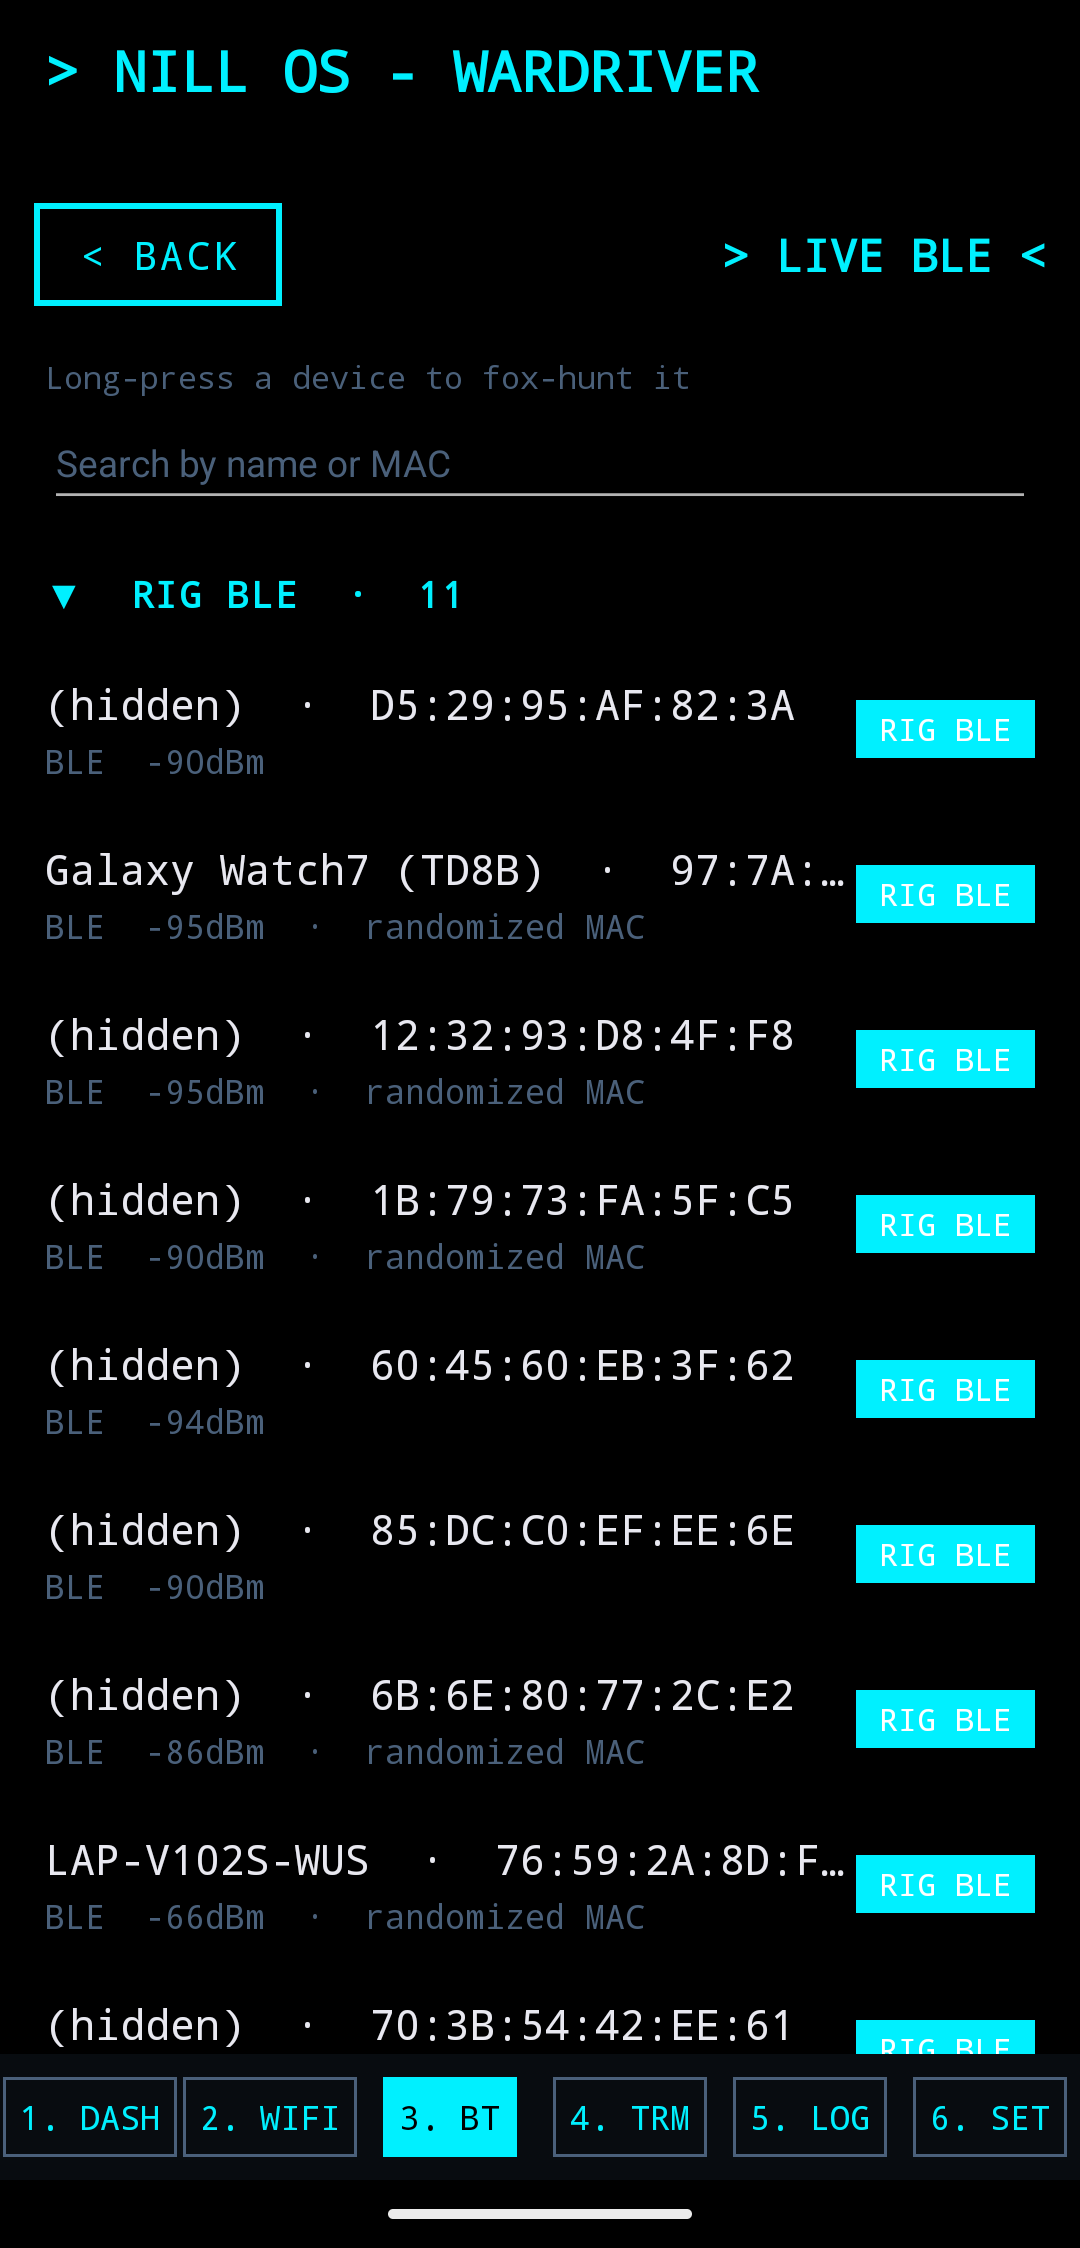
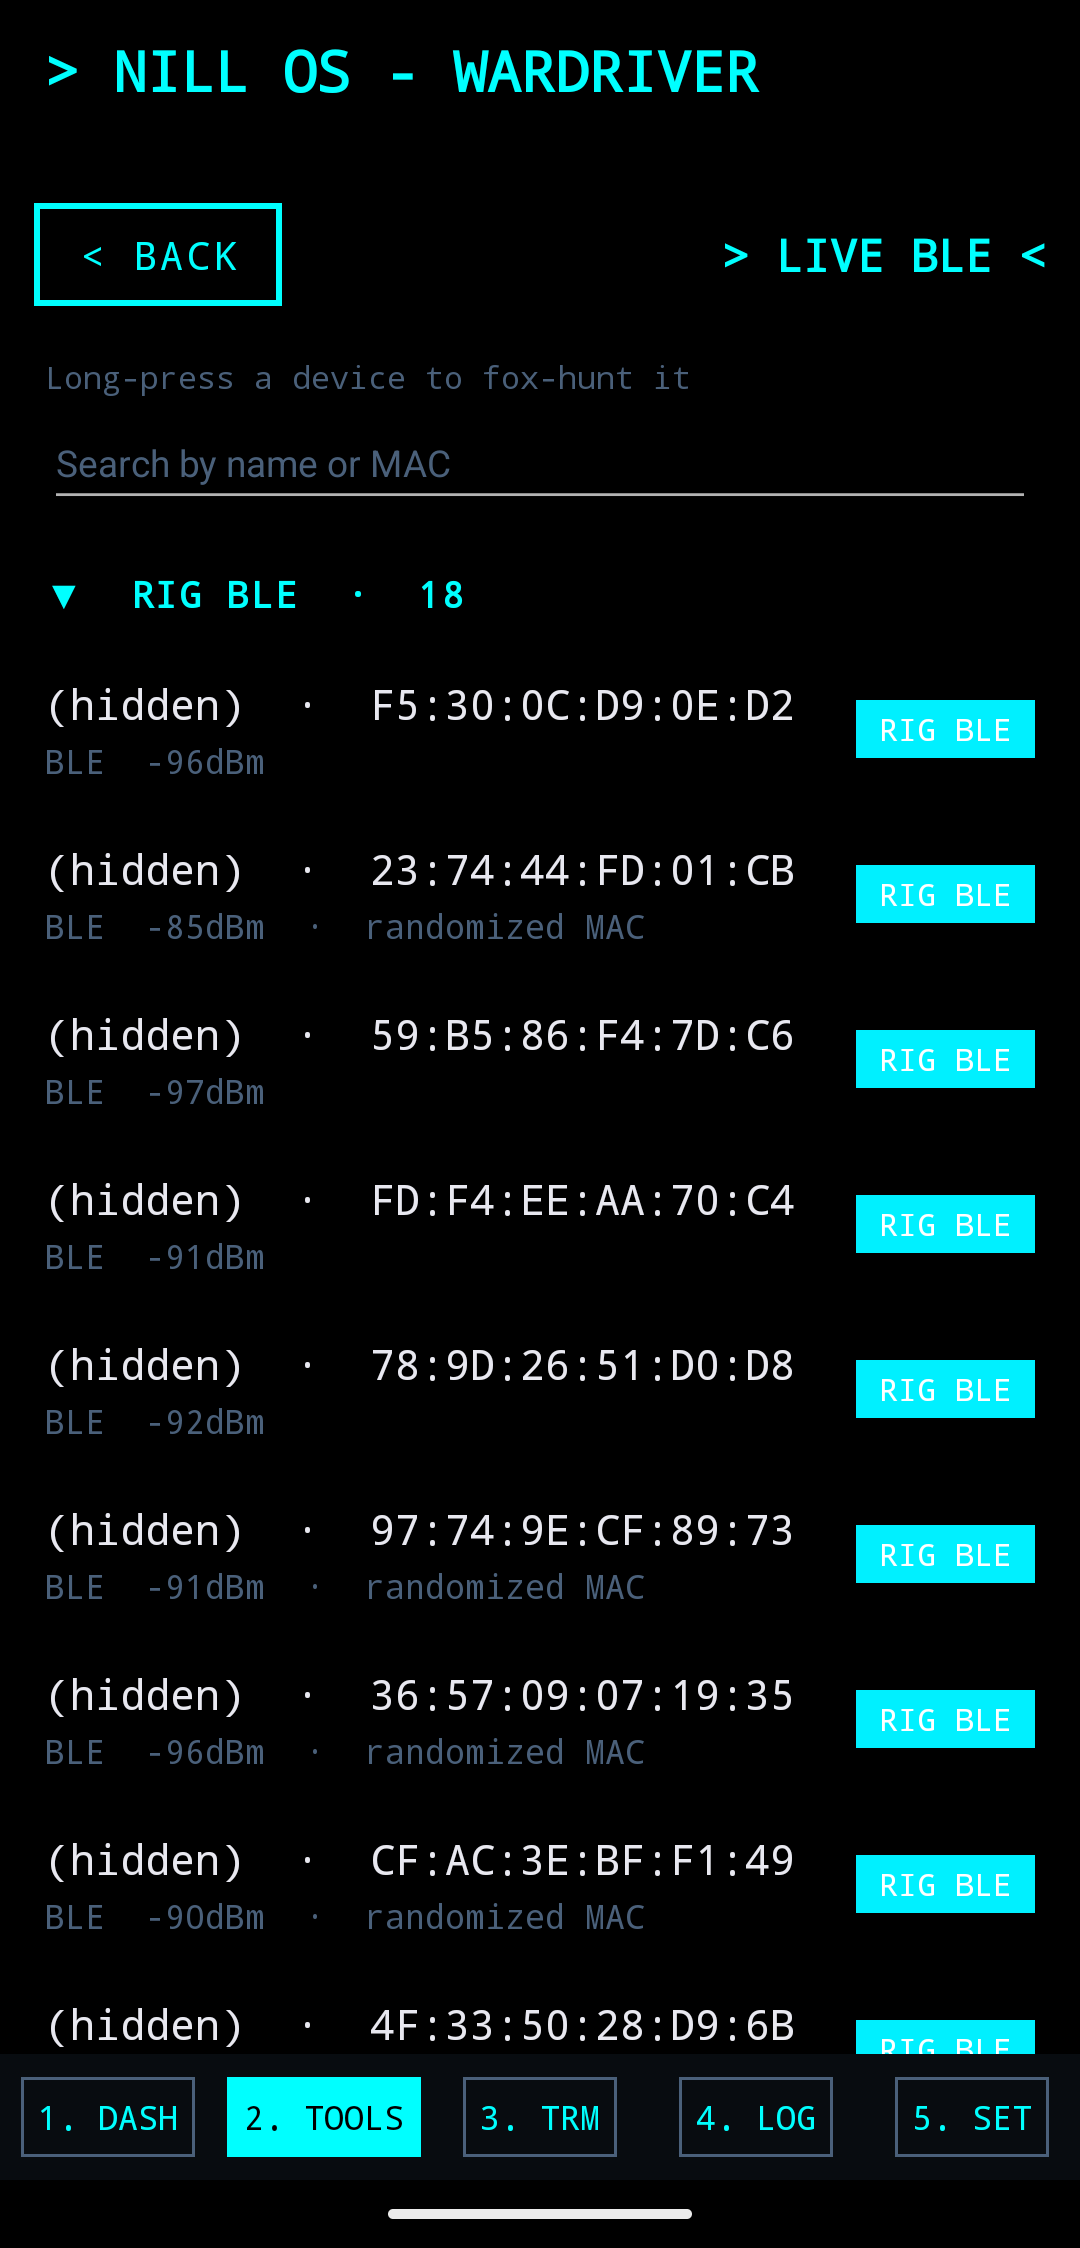
Refresh phone screenshots, add watchlist shot
Regenerate the dashboard and Live WiFi/BLE screenshots for the new
five-button nav (Dash/Tools/Terminal/Logs/Settings) and add a
Watchlist screenshot. Make the watchlist add/remove buttons compact
so each device row shows its MAC and signal.

diff --git a/android/app/src/main/java/com/dreknil/wardrivebridge/MainActivity.kt b/android/app/src/main/java/com/dreknil/wardrivebridge/MainActivity.kt
@@ -966,7 +966,7 @@ class MainActivity : AppCompatActivity(), ScanService.SessionListener {
                     gravity = android.view.Gravity.CENTER_VERTICAL
                     setPadding(0, dp(4), 0, dp(4))
                 }
-                row.addView(android.widget.TextView(this).apply { text = e.label; maxLines = 2; setTextColor(primary) },
+                row.addView(android.widget.TextView(this).apply { text = e.label; maxLines = 2; ellipsize = android.text.TextUtils.TruncateAt.END; setTextColor(primary) },
                     android.widget.LinearLayout.LayoutParams(0, android.view.ViewGroup.LayoutParams.WRAP_CONTENT, 1f))
                 row.addView(android.widget.CheckBox(this).apply {
                     text = "In"; isChecked = e.enter
@@ -978,6 +978,7 @@ class MainActivity : AppCompatActivity(), ScanService.SessionListener {
                 })
                 row.addView(android.widget.Button(this).apply {
                     text = "✕"
+                    minWidth = 0; minimumWidth = 0; setPadding(dp(20), 0, dp(20), 0)
                     setOnClickListener { entries.removeAt(i); rebuildAll() }
                 })
                 watchContainer.addView(row)
@@ -1003,10 +1004,11 @@ class MainActivity : AppCompatActivity(), ScanService.SessionListener {
                     gravity = android.view.Gravity.CENTER_VERTICAL
                     setPadding(0, dp(2), 0, dp(2))
                 }
-                row.addView(android.widget.TextView(this).apply { text = kd.display; textSize = 13f; maxLines = 1; setTextColor(primary) },
+                row.addView(android.widget.TextView(this).apply { text = kd.display; textSize = 13f; maxLines = 1; ellipsize = android.text.TextUtils.TruncateAt.END; setTextColor(primary) },
                     android.widget.LinearLayout.LayoutParams(0, android.view.ViewGroup.LayoutParams.WRAP_CONTENT, 1f))
                 row.addView(android.widget.Button(this).apply {
                     text = "+"
+                    minWidth = 0; minimumWidth = 0; setPadding(dp(20), 0, dp(20), 0)
                     setOnClickListener {
                         entries.add(AppSettings.WatchEntry(kd.key, kd.label, enter = true, leave = true))
                         rebuildAll()

diff --git a/README.md b/README.md
@@ -54,9 +54,10 @@ A standalone car wardriving rig built from three cheap ESP32 boards. It logs 2.4
   <img src="docs/screenshots/phone-dashboard.png" width="205" alt="Dashboard">
   <img src="docs/screenshots/phone-wifi-tools.png" width="205" alt="Live WiFi (rig + phone)">
   <img src="docs/screenshots/phone-bluetooth-tools.png" width="205" alt="Live BLE (rig + phone)">
+  <img src="docs/screenshots/phone-watchlist.png" width="205" alt="Device watchlist">
   <img src="docs/screenshots/phone-settings.png" width="205" alt="Settings">
 </p>
-<p align="center"><em>The Nill OS - Wardriver phone app: live dashboard, and Live WiFi / Live BLE pulling from both the rig and the phone (each device tagged by source), long-press any of them to fox-hunt. (Account totals and map are hidden here for privacy.)</em></p>
+<p align="center"><em>The Nill OS - Wardriver phone app: live dashboard; Live WiFi / Live BLE pulling from both the rig and the phone (each device tagged by source, long-press to fox-hunt); and the device watchlist - search or filter devices nearby or from your logs, with per-device enter/leave alerts. (The account map is hidden here for privacy.)</em></p>
 
 <p align="center">
   <img src="docs/screenshots/desktop-uploader.png" width="330" alt="Desktop tool - logs & report">
